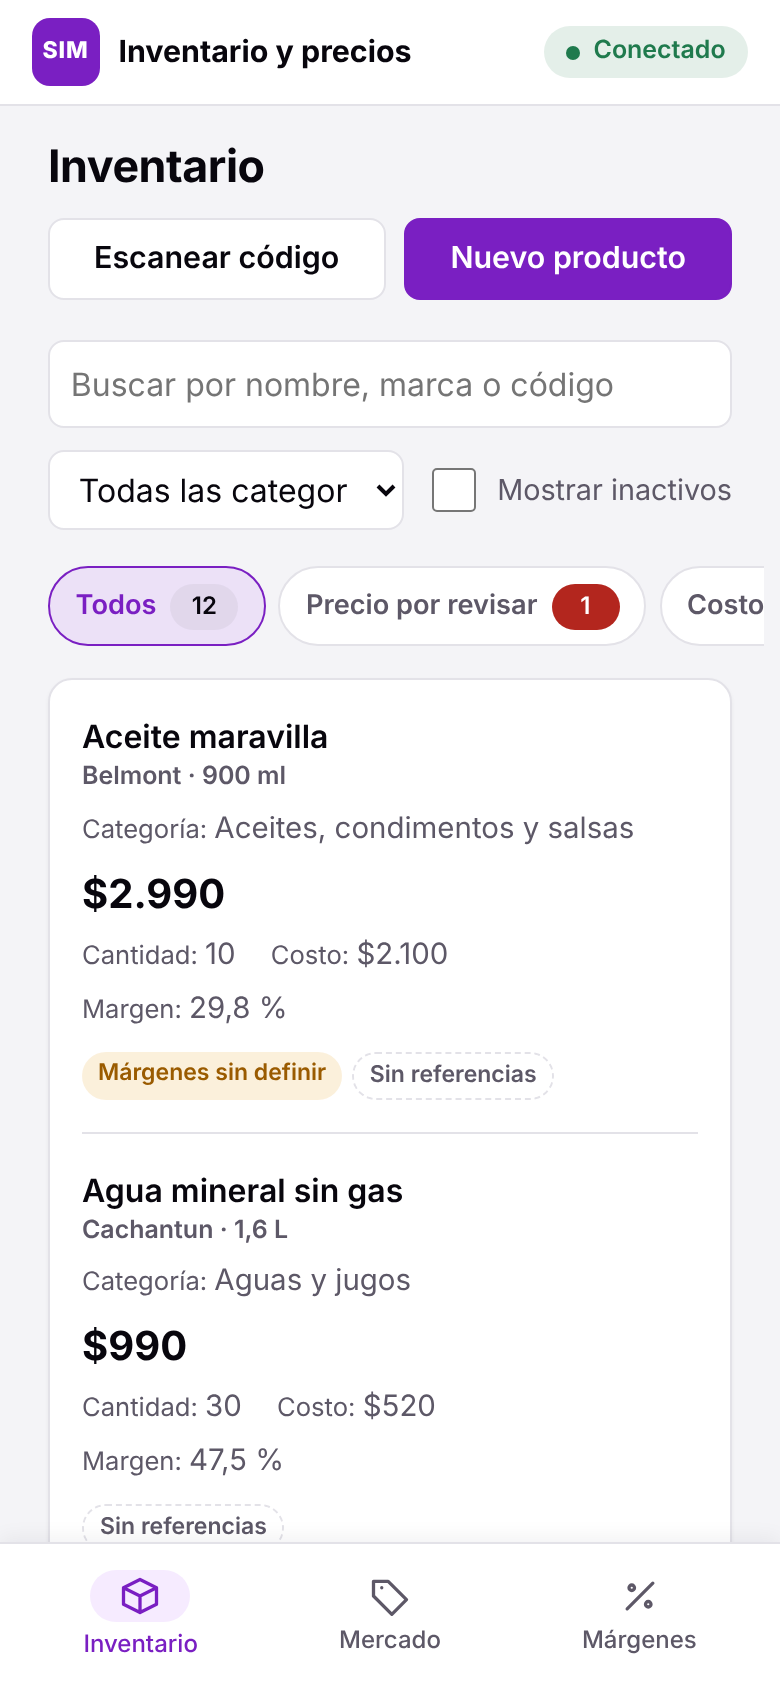
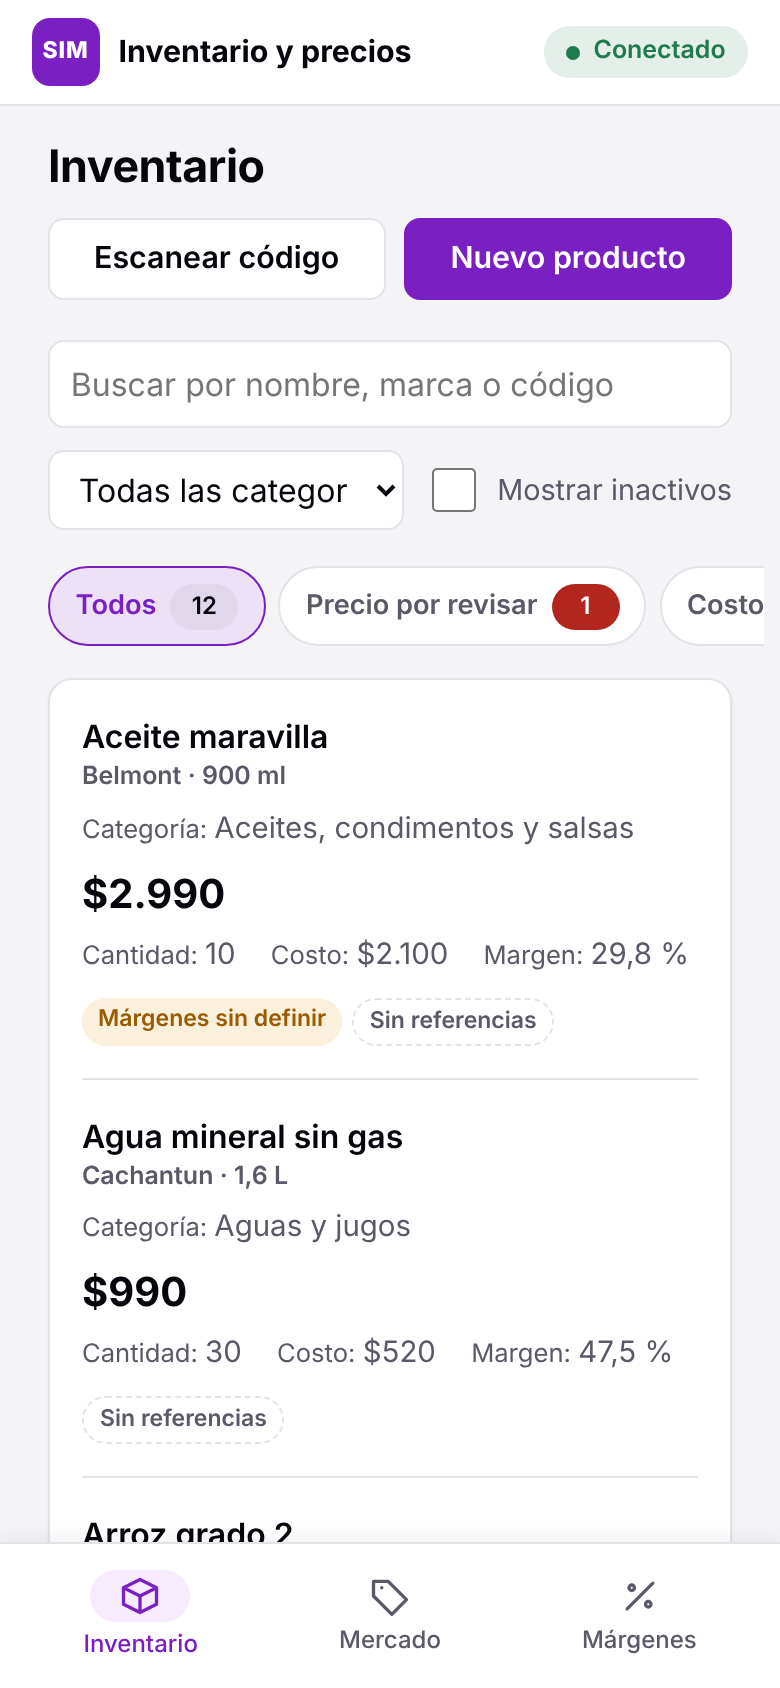
Pulir Precios de mercado, Categorías y el formulario de producto
- Precios de mercado: tablas de observaciones más compactas, acciones en
  una línea, precio destacado y botones de cada tarjeta más discretos
  (la página queda un 27 % más corta en escritorio).
- Celular: inventario, categorías y precios observados comparten el mismo
  formato compacto (datos cortos en una línea, filas vacías ocultas);
  en categorías solo se marca lo inactivo.
- Formulario de producto: "Precio y costo" en dos columnas para que las
  etiquetas largas no desalineen los campos.

Claude-Session: https://claude.ai/code/session_01V6dsuLYLLj7zTVrZ9fxkMx

diff --git a/frontend/src/admin.css b/frontend/src/admin.css
@@ -1298,30 +1298,46 @@ tbody tr:hover td {
     flex: 1 1 0;
   }
 
-  /* Inventario: cantidad, costo y margen en una sola línea por producto. */
-  table.inventory-table tr {
+  /* Tablas compactas (inventario, categorías, precios observados): datos
+     cortos en una sola línea y el precio destacado. */
+  table.compact-cards tr {
     display: flex;
     flex-wrap: wrap;
     align-items: baseline;
+    column-gap: 1.1rem;
   }
 
-  table.inventory-table td {
+  table.compact-cards td {
     order: 1;
   }
 
-  table.inventory-table td.price {
+  table.compact-cards td.price {
     order: 2;
     padding: 0.3rem 0 0.1rem;
   }
 
-  table.inventory-table td.num[data-label] {
+  table.compact-cards td:is(.num[data-label], .inline) {
     order: 3;
     width: auto;
-    margin-right: 1.1rem;
   }
 
-  table.inventory-table td:last-child {
-    order: 4;
+  table.compact-cards td.notes {
+    order: 5;
+    font-size: 0.88rem;
+  }
+
+  table.compact-cards td:last-child {
+    order: 6;
+  }
+
+  table.compact-cards td:empty,
+  table.compact-cards td:has(> .chips:empty) {
+    display: none;
+  }
+
+  table.compact-cards td.row-title {
+    font-weight: 600;
+    font-size: 1rem;
   }
 
   table.inventory-table .chips {
@@ -1396,4 +1412,86 @@ tbody td:first-child {
   .filter-tabs .count.danger {
     color: var(--on-accent);
   }
+}
+
+/* Precio y costo: dos columnas para que las etiquetas largas quepan en una línea. */
+@media (min-width: 721px) {
+  .form-grid.cols-2 {
+    grid-template-columns: repeat(2, minmax(0, 1fr));
+  }
+}
+
+/* Precios de mercado: tarjetas más compactas. */
+.compact-cards td.row-actions {
+  white-space: nowrap;
+}
+
+.compact-cards td.row-actions button.link {
+  padding: 0.2rem 0.3rem;
+  font-size: 0.85rem;
+}
+
+.reference-actions {
+  align-items: center;
+  font-size: 0.88rem;
+}
+
+.reference-actions button:not(.link) {
+  min-height: 34px;
+  padding: 0.3rem 0.8rem;
+  font-size: 0.85rem;
+}
+
+.card .table-wrap table {
+  font-size: 0.88rem;
+}
+
+.card .table-wrap :is(th, td) {
+  padding: 0.5rem 0.6rem;
+}
+
+@media (max-width: 720px) {
+  .compact-cards td.row-actions {
+    white-space: normal;
+  }
+
+  .compact-cards td.row-actions button.link {
+    min-height: 40px;
+    padding-left: 0;
+    margin-right: 0.8rem;
+  }
+
+  .card .table-wrap :is(th, td) {
+    padding: 0.15rem 0;
+  }
+}
+
+.reference-actions :is(button.link, a) {
+  font-size: 0.85rem;
+}
+
+td.price {
+  font-weight: 600;
+  color: var(--text-h);
+}
+
+@media (max-width: 720px) {
+  /* En el celular solo se marca lo inactivo. */
+  table.compact-cards td.inline:has(> .muted:only-child) {
+    display: none;
+  }
+
+  table.compact-cards td:last-child > button.link:first-child {
+    padding-left: 0;
+  }
+}
+
+.stale-note {
+  margin-bottom: 0.75rem;
+}
+
+.stale-note button.link {
+  font-size: inherit;
+  padding: 0 0.2rem;
+  min-height: 0;
 }

diff --git a/frontend/src/components/ReferenceCard.tsx b/frontend/src/components/ReferenceCard.tsx
@@ -189,7 +189,7 @@ export function ReferenceCard({
 
       {observations.length > 0 && (
         <div className="table-wrap">
-          <table className="cards">
+          <table className="cards compact-cards">
             <thead>
               <tr>
                 <th>Fecha</th>
@@ -204,8 +204,8 @@ export function ReferenceCard({
             <tbody>
               {observations.map((observation) => (
                 <tr key={observation.id} className={observation.status === "INVALID" ? "inactive" : ""}>
-                  <td data-label="Fecha">{formatDate(observation.observed_on)}</td>
-                  <td data-label="Tipo">
+                  <td className="inline" data-label="Fecha">{formatDate(observation.observed_on)}</td>
+                  <td className="inline" data-label="Tipo">
                     {observation.price_type === "PROMO" ? "Promoción" : "Habitual"}
                     {observation.promo_valid_until && (
                       <span className="sub">hasta {formatDate(observation.promo_valid_until)}</span>
@@ -230,7 +230,7 @@ export function ReferenceCard({
                       )}
                     </div>
                   </td>
-                  <td>
+                  <td className="notes">
                     {observation.notes}
                     {observation.url && (
                       <>
@@ -241,7 +241,7 @@ export function ReferenceCard({
                       </>
                     )}
                   </td>
-                  <td>
+                  <td className="row-actions">
                     {observation.status === "VALID" && (
                       <>
                         <button
@@ -276,7 +276,7 @@ export function ReferenceCard({
         </div>
       )}
 
-      <div className="actions" style={{ marginTop: "0.6rem" }}>
+      <div className="actions reference-actions" style={{ marginTop: "0.6rem" }}>
         {!adding && (
           <button type="button" onClick={() => setAdding(true)}>
             Registrar precio observado

diff --git a/frontend/src/pages/CategoriesPage.tsx b/frontend/src/pages/CategoriesPage.tsx
@@ -176,7 +176,7 @@ export default function CategoriesPage() {
         {categories.length === 0 ? (
           <p className="empty">Todavía no hay categorías.</p>
         ) : (
-          <table className="cards">
+          <table className="cards compact-cards">
             <thead>
               <tr>
                 <th>Categoría</th>
@@ -216,14 +216,14 @@ export default function CategoriesPage() {
                   </tr>
                 ) : (
                   <tr key={category.id} className={category.active ? "" : "inactive"}>
-                    <td>{category.name}</td>
+                    <td className="row-title">{category.name}</td>
                     <td className="num" data-label="Margen mínimo">
                       {category.min_margin === null ? <span className="chip warn">Sin definir</span> : formatPercent(category.min_margin)}
                     </td>
                     <td className="num" data-label="Margen superior">
                       {category.upper_margin === null ? <span className="chip warn">Sin definir</span> : formatPercent(category.upper_margin)}
                     </td>
-                    <td>{category.active ? "Activa" : "Inactiva"}</td>
+                    <td className="inline">{category.active ? <span className="muted">Activa</span> : <span className="chip">Inactiva</span>}</td>
                     <td>
                       <button type="button" className="link" onClick={() => startEdit(category)}>
                         Editar

diff --git a/frontend/src/pages/ProductFormPage.tsx b/frontend/src/pages/ProductFormPage.tsx
@@ -519,7 +519,7 @@ export default function ProductFormPage({
 
         <fieldset>
           <legend>Precio y costo</legend>
-          <div className="form-grid">
+          <div className="form-grid cols-2">
             <label className="field">
               <span>
                 Precio de venta actual (CLP) {!editing && <span className="required">(obligatorio)</span>}

diff --git a/frontend/src/pages/MarketPage.tsx b/frontend/src/pages/MarketPage.tsx
@@ -733,7 +733,7 @@ function StaleSettings({ value, onSaved }: { value: number | null; onSaved: (day
   }
 
   return (
-    <p className="muted">
+    <p className="muted stale-note">
       Una referencia se marca como “Precio por verificar” cuando su última observación tiene más de{" "}
       <strong>{value} días</strong>.{" "}
       <button

diff --git a/frontend/src/pages/InventoryPage.tsx b/frontend/src/pages/InventoryPage.tsx
@@ -291,7 +291,7 @@ export default function InventoryPage() {
             </button>
           </div>
         ) : (
-          <table className="cards inventory-table">
+          <table className="cards compact-cards inventory-table">
             <thead>
               <tr>
                 {sortHeader("Producto", "name")}
